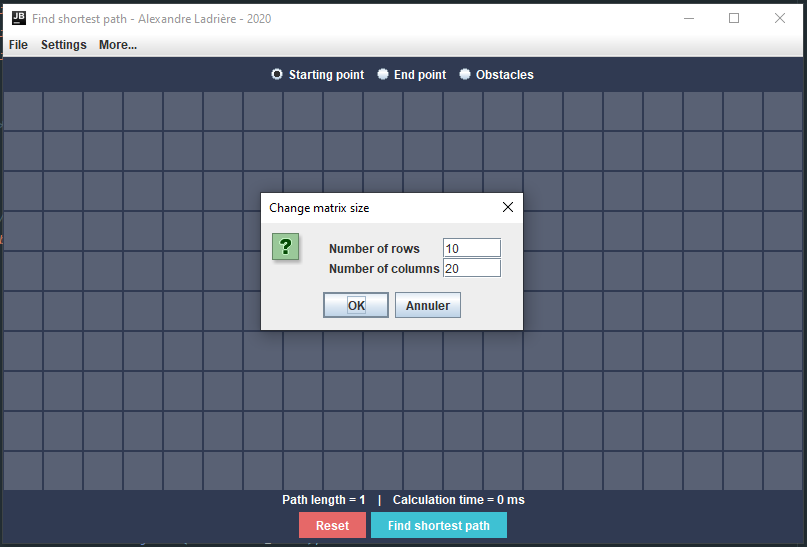
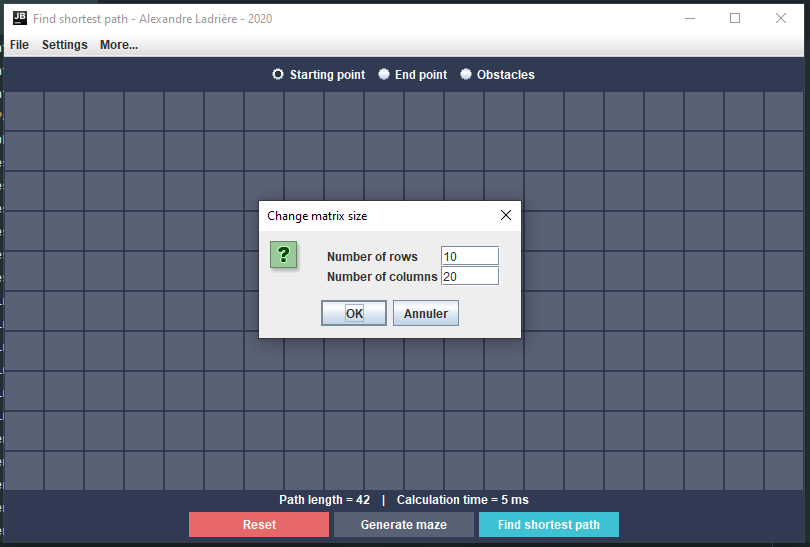
upd: Adding maze generation button and updating README

diff --git a/src/main/java/fr/alexandreladriere/shortestpath/gui/Gui.java b/src/main/java/fr/alexandreladriere/shortestpath/gui/Gui.java
@@ -17,6 +17,7 @@ public class Gui extends JPanel {
     private final JRadioButton obstacleRadio;
     private final JButton resetButton;
     private final JButton findPathButton;
+    private final JButton generateMazeButton;
     private final JLabel pathInfo;
     private final Controller controller;
     private final JFrame parent;
@@ -31,6 +32,7 @@ public class Gui extends JPanel {
     private JMenuItem loadMenuItem;
     private Case[][] matrix;
     private JRadioButtonMenuItem bfsRadioMenuItem;
+    private JRadioButtonMenuItem mazePrimRadioMenuItem;
     private JCheckBoxMenuItem useDiag;
     private JMenuBar menuBar;
     private JMenuItem changeMatrixSizeMenuItem;
@@ -99,12 +101,21 @@ public class Gui extends JPanel {
         resetButton.setBorderPainted(false);
         resetButton.setBackground(Colors.END_COLOR);
         resetButton.setForeground(Colors.TEXT_COLOR);
+        resetButton.setPreferredSize(new Dimension(140, 25));
         findPathButton = new JButton(Strings.FIND);
         findPathButton.addActionListener(controller);
         findPathButton.setBorderPainted(false);
         findPathButton.setBackground(Colors.START_COLOR);
         findPathButton.setForeground(Colors.TEXT_COLOR);
+        findPathButton.setPreferredSize(new Dimension(140, 25));
+        generateMazeButton = new JButton(Strings.GENERATE_MAZE);
+        generateMazeButton.addActionListener(controller);
+        generateMazeButton.setBorderPainted(false);
+        generateMazeButton.setBackground(Colors.DEFAULT_COLOR);
+        generateMazeButton.setForeground(Colors.TEXT_COLOR);
+        generateMazeButton.setPreferredSize(new Dimension(140, 25));
         subCenterPanel.add(resetButton);
+        subCenterPanel.add(generateMazeButton);
         subCenterPanel.add(findPathButton);
         southPanel.add(pathInfo, BorderLayout.NORTH);
         southPanel.add(subCenterPanel, BorderLayout.CENTER);
@@ -140,6 +151,13 @@ public class Gui extends JPanel {
         bfsRadioMenuItem.setSelected(true);
         bgMenu.add(bfsRadioMenuItem);
         algoSubMenu.add(bfsRadioMenuItem);
+        // Maze algorithms sub menu
+        JMenu mazeAlgoSubMenu = new JMenu(Strings.MAZE_ALGO);
+        ButtonGroup mazeBgMenu = new ButtonGroup();
+        mazePrimRadioMenuItem = new JRadioButtonMenuItem(Strings.ALGO_RAND_PRIM);
+        mazePrimRadioMenuItem.setSelected(true);
+        mazeBgMenu.add(mazePrimRadioMenuItem);
+        mazeAlgoSubMenu.add(mazePrimRadioMenuItem);
         // useDiag menu check box
         useDiag = new JCheckBoxMenuItem(Strings.USE_DIAG);
         useDiag.setSelected(false);
@@ -148,6 +166,8 @@ public class Gui extends JPanel {
         changeMatrixSizeMenuItem.addActionListener(controller);
         // Adding to menu
         settingsMenu.add(algoSubMenu);
+        settingsMenu.addSeparator();
+        settingsMenu.add(mazeAlgoSubMenu);
         settingsMenu.addSeparator();
         settingsMenu.add(useDiag);
         settingsMenu.addSeparator();
@@ -439,6 +459,15 @@ public class Gui extends JPanel {
     }
 
     /**
+     * Get the Randomized Prim's algorithm RadioMenuItem
+     *
+     * @return Randomized Prim's algorithm RadioMenuItem
+     */
+    public JRadioButtonMenuItem getMazePrimRadioMenuItem() {
+        return mazePrimRadioMenuItem;
+    }
+
+    /**
      * Get the JMenuItem corresponding to the "change matrix size" setting
      *
      * @return JMenuItem corresponding to the "change matrix size" setting
@@ -481,5 +510,14 @@ public class Gui extends JPanel {
      */
     public JMenuItem getLoadMenuItem() {
         return loadMenuItem;
+    }
+
+    /**
+     * Get the "Generate maze" button
+     *
+     * @return The "Generate maze" button
+     */
+    public JButton getGenerateMazeButton() {
+        return generateMazeButton;
     }
 }

diff --git a/src/main/java/fr/alexandreladriere/shortestpath/gui/Controller.java b/src/main/java/fr/alexandreladriere/shortestpath/gui/Controller.java
@@ -41,11 +41,16 @@ public class Controller implements ActionListener {
                 gui.getPathInfo().setText("Path length = " + path.size() + "    |    Calculation time = " + duration + " ms");
             }
         }
+        // Generate a maze according to the select algorithm
+        if (cmd.equals(gui.getGenerateMazeButton())) {
+            if (gui.getMazePrimRadioMenuItem().isSelected()) {
+                int[][] maze = Prims.generateMaze(gui.getMatrix().length, gui.getMatrix()[0].length);
+                gui.loadMatrix(maze);
+            }
+        }
         // reset the matrix/grid
         if (cmd.equals(gui.getResetButton())) {
-            //gui.resetMatrix();
-            int[][] maze = Prims.generateMaze(gui.getMatrix().length, gui.getMatrix()[0].length);
-            gui.loadMatrix(maze);
+            gui.resetMatrix();
         }
         if (cmd.equals(gui.getSaveAsMenuItem())) {
             String file = FileHandler.getSaveAsAbsoluteFilePath();

diff --git a/src/main/java/fr/alexandreladriere/shortestpath/utils/Strings.java b/src/main/java/fr/alexandreladriere/shortestpath/utils/Strings.java
@@ -10,11 +10,14 @@ public final class Strings {
     public static final String OBSTACLES = "Obstacles";
     public static final String RESET = "Reset";
     public static final String FIND = "Find shortest path";
+    public static final String GENERATE_MAZE = "Generate maze";
     public static final String HELP = "Help";
     public static final String SETTINGS = "Settings";
     public static final String USE_DIAG = "Allow diagonal moves";
-    public static final String ALGO = "Algorithms";
+    public static final String ALGO = "Shortest Path Algorithms";
+    public static final String MAZE_ALGO = "Maze Algorithms";
     public static final String ALGO_BFS = "Breadth-first Search (BFS)";
+    public static final String ALGO_RAND_PRIM = "Randomized Prim's Algorithm";
     public static final String CHANGE_SIZE = "Change matrix size";
     public static final String ROW_NUMBER = "Number of rows ";
     public static final String COL_NUMBER = "Number of columns ";

diff --git a/README.md b/README.md
@@ -1,10 +1,14 @@
 # Shortest-Path (WIP)
 [![GitHub license](https://img.shields.io/github/license/AlexandreLadriere/Shortest-Path.svg)](https://github.com/AlexandreLadriere/Shortest-Path/blob/master/LICENSE)
 
-This project aims to implement some algorithms for finding the shortest path between a starting point and an end point in a matrix with obstacles, and to illustrate the solutions through a graphical interface.
+This project aims to implement some algorithms for finding the shortest path between a starting point and an end point in a matrix with obstacles, and to illustrate the solutions through a graphical interface. You can select where to place the starting point and the end point, as well as the obstacles.
+It also implements some algorithms to generate a maze.
 
 For the moment, only the following algorithms have been implemented:
-- [Breadth-first Search] (BFS), with and without the possibility to move in diagonals.
+- Find the shortest path:
+  - [Breadth-first Search algorithm] (BFS), with and without the possibility to move in diagonals.
+- Generate a maze:
+  - [Randomized Prim's algorithm]
 
 ## How to use
 You can compile and run this app by yourself, OR you can use my [make.sh] script:
@@ -43,6 +47,7 @@ $ sh make.sh help
 <div align="center">
 <img alt="without_path.png" src="screenshots/without_path.png" width="404" height="474" /> 
 <img alt="with_path.png" src="screenshots/with_path.png" width="404" height="474" /> 
+<img alt="maze_with_path.png" src="screenshots/maze_with_path.png" width="404" height="474" /> 
 <img alt="matrix_size.png" src="screenshots/matrix_size.png" width="404" height="274" /> 
 </div>
 
@@ -63,4 +68,5 @@ If you find any bugs/issues, raise an issue.
 
   [LICENSE]: <LICENSE>
   [make.sh]: <make.sh>
-  [Breadth-first Search]: <https://en.wikipedia.org/wiki/Breadth-first_search>
+  [Breadth-first Search algorithm]: <https://en.wikipedia.org/wiki/Breadth-first_search>
+  [Randomized Prim's algorithm]: <https://en.wikipedia.org/wiki/Maze_generation_algorithm#Randomized_Prim's_algorithm>
